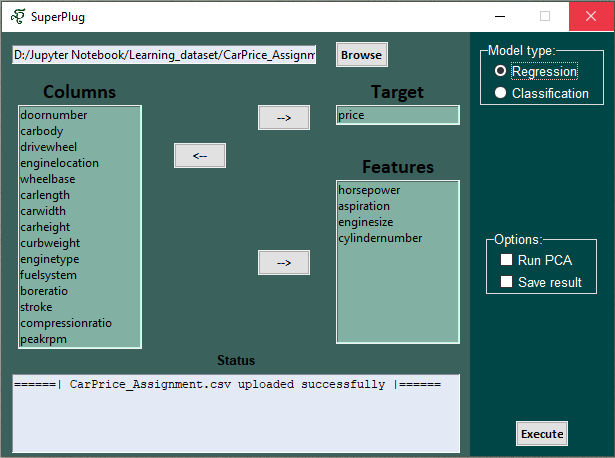
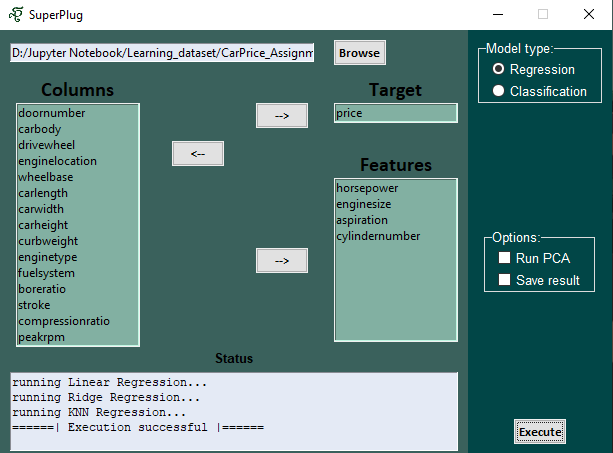
added support for knn regress

diff --git a/backend.py b/backend.py
@@ -1,5 +1,6 @@
 import numpy as np
 from metrics import *
+from abc import ABC, abstractmethod
 
 """This is my custom and purely python backend for the SuperPlug. 
 The OOP structure resembles that of Sklearn. In fact, I try to 
@@ -664,3 +665,75 @@ class Ridge(LinearModel, BaseRegression):
         return prediction
 
 
+class KNNBase(ABC, BaseRegression):
+    """
+    K-Nearest Neighbors (KNN) base class for regression and classification.
+
+    Parameters:
+    - n_neighbors (int): Number of neighbors to consider during prediction.
+
+    Methods:
+    - fit(X, y): Fit the KNN model with training data.
+    - predict(X): Predict target values for new data points.
+
+    Abstract Method:
+    - prediction_measure(nearest_targets): Define the prediction measure.
+
+    Attributes:
+    - n_neighbors (int): Number of neighbors.
+    - X_ref_ (numpy.ndarray): Training data features.
+    - y_ref_ (numpy.ndarray): Training data labels.
+    """
+
+    def __init__(self, n_neighbors=5):
+        """Initialize KNN with the specified number of neighbors."""
+        self.n_neighbors = n_neighbors
+
+    def fit(self, X, y):
+        """Fit the KNN model with training data."""
+        self.X_ref_ = X
+        self.y_ref_ = y
+        return self
+
+    def predict(self, X):
+        """Predict target values for new data points."""
+        distances = np.linalg.norm(X[:, np.newaxis] - self.X_ref_, axis=2)
+        nearest_indices = np.argsort(distances)[:, :self.n_neighbors]
+        nearest_targets = self.y_ref_[nearest_indices]
+        predictions = np.apply_along_axis(self.prediction_measure, axis=1, arr=nearest_targets)
+        return predictions
+
+    @staticmethod
+    def euclidean_distance(x1, x2):
+        """Compute the Euclidean distance between two vectors."""
+        return np.linalg.norm(x1 - x2)
+
+    @abstractmethod
+    def prediction_measure(self, nearest_targets):
+        """Abstract method to define the prediction measure."""
+
+
+class KNeighborsRegressor(KNNBase):
+    """
+    KNN regressor for predicting continuous values.
+
+    Method:
+    - prediction_measure(nearest_targets): Calculate the mean of nearest targets.
+    """
+
+    def prediction_measure(self, nearest_targets):
+        """Calculate the mean of nearest targets for regression."""
+        return np.mean(nearest_targets)
+
+
+class KNNClassifier(KNNBase):
+    """
+    KNN classifier for predicting discrete values.
+
+    Method:
+    - prediction_measure(nearest_targets): Predict the mode of nearest targets.
+    """
+
+    def prediction_measure(self, nearest_targets):
+        """Predict the mode of nearest targets for classification."""
+        return int(np.argmax(np.bincount(nearest_targets)))

diff --git a/api.py b/api.py
@@ -11,6 +11,7 @@ import numpy as np
 # from sklearn.preprocessing import StandardScaler, OneHotEncoder
 # from sklearn.model_selection import train_test_split
 # from sklearn.linear_model import Lasso, Ridge, LinearRegression
+# from sklearn.neighbors import KNeighborsRegressor
 # from sklearn.impute import SimpleImputer
 # from sklearn.ensemble import RandomForestRegressor
 # from sklearn.base import BaseEstimator, TransformerMixin
@@ -31,8 +32,8 @@ class FinalAlgo():
 
 		if hasattr(self.estimator_, "_param_space"):
 			cv_search = RandomizedSearchCV(estimator=self.estimator_, 
-							 param_distributions=self.estimator_._param_space,
-							 n_iter=10)
+							 			   param_distributions=self.estimator_._param_space,
+							 			   n_iter=10)
 			cv_search.fit(self._all_data["X_train"], self._all_data["y_train"])
 			estimator_final = cv_search.best_estimator_
 			# print(estimator_final.alpha)
@@ -98,6 +99,13 @@ class Ridge(Ridge, CustomRegression):
 # 		super().__init__(max_depth=max_depth, **kwargs)
 # 		self.all_data = None
 # 		self.param_space = {"max_depth": np.arange(1, 31)}
+
+class KNeighborsRegressor(KNeighborsRegressor, CustomRegression):
+
+	def __init__(self, n_neighbors=5, **kwargs):
+		super().__init__(n_neighbors=n_neighbors, **kwargs)
+		self._all_data = None
+		self._param_space = {"n_neighbors": np.arange(2, 13)}
 
 
 class StructuredArrImputer(BaseEstimator, TransformerMixin):
@@ -241,8 +249,10 @@ class Result:
 
 	def get_models(self):
 		models = {"Linear Regression": LinearRegression(), 
-			      "Ridge Regression": Ridge()}
+			      "Ridge Regression": Ridge(),
+			      "KNN Regression": KNeighborsRegressor()}
 
+		# Wrap all the models in FinalAlgo class
 		fittables = {i:FinalAlgo(j, self.all_data) for (i,j) in models.items()}
 		return fittables
 
